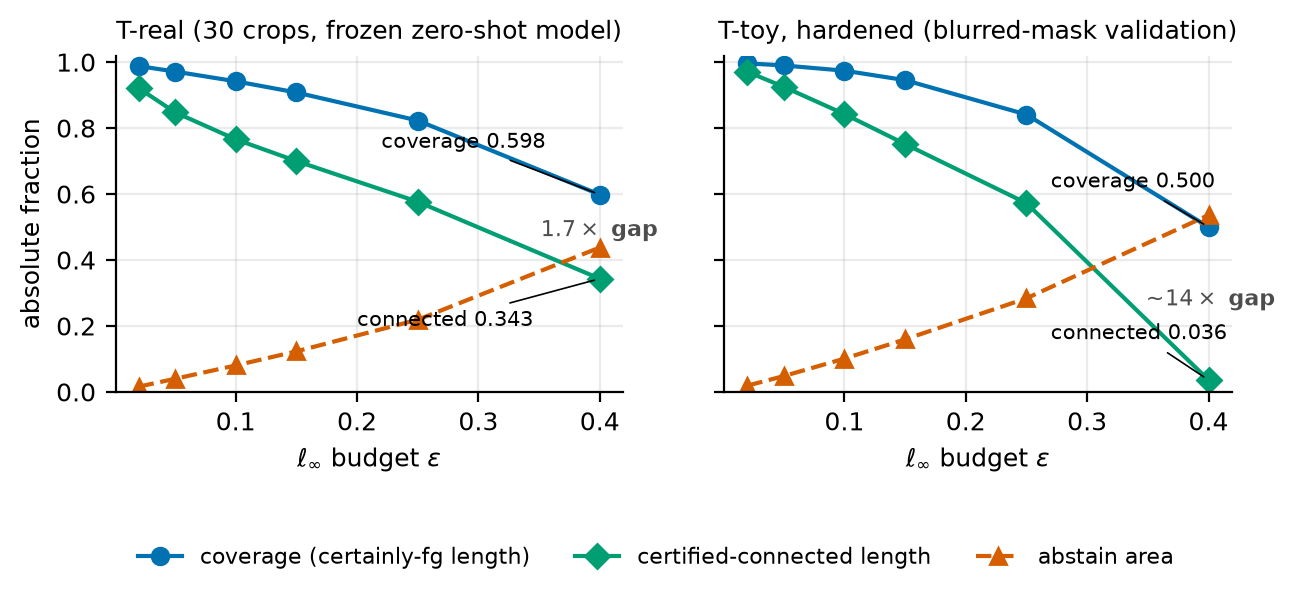
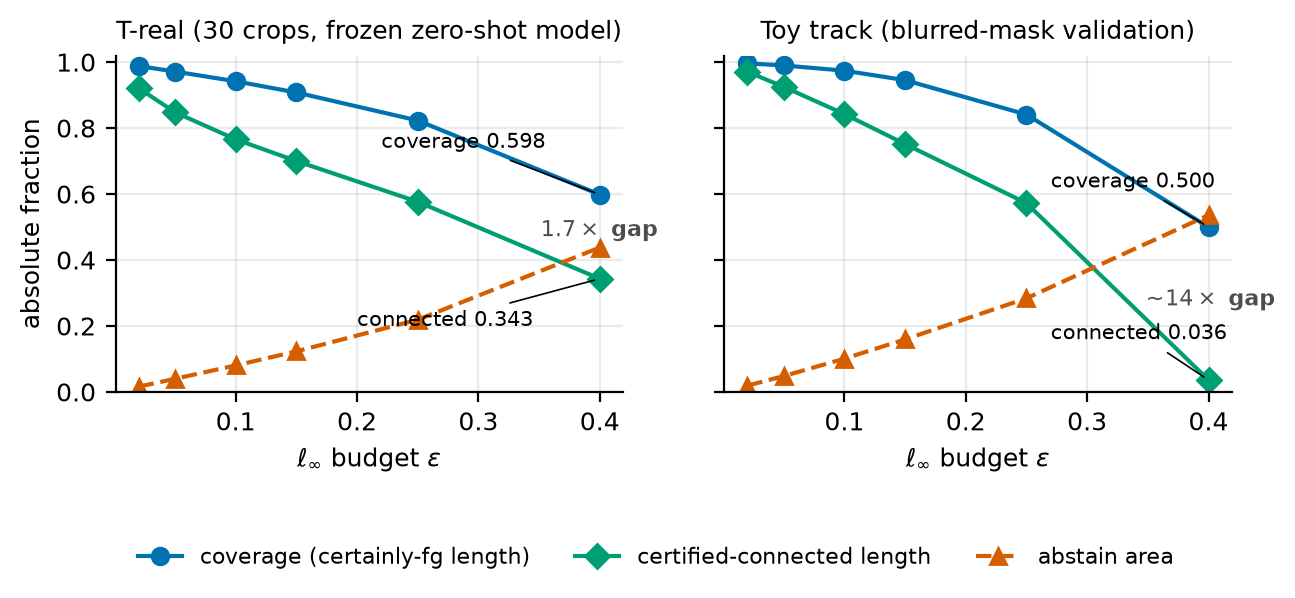
Paper corrections: monotonicity claim, Appendix A, abstract; add check_sync.py
- Sec 5.4 asserted 'every certified quantity is monotone along the sweep',
  which the paper's own Tables 2 and 3 falsify. The correction previously
  existed only in paper.md, so the built PDF still carried the false claim.
  Sets nest exactly; counts do not (components fragment, cavities merge); the
  persistence-form cycle count is the one provably monotone count.
- Appendix A was titled 'Full tables' and contained none - retitled to what it
  holds, the per-crop distribution figure and the rounding convention.
- Abstract: CERT_BG was still the strict test after the definition changed to
  <=; the cycle clause named an image rank in homology notation, which after
  the H-C4 correction is not even the headline count. Both fixed.
- Contribution 1 split into the two claims it makes.
- eps snap rule and the rank-identity strictness fix reached the tex.

check_sync.py: reduces paper.md and the built PDF to word-stem sequences and
looks up every md sentence in the PDF. Four divergences reached the artifact
before this existed. It sits beside check_numbers.py - that guards the numbers
in the markdown master, this guards prose agreement between the two.

Release adaptations restored after a wholesale copy overwrote them:
make_figs.py (_EXTERNAL, guarded path), tables.py (results/ not
experiments/topocert/ - it had never worked here), check_sync.py (path-agnostic
rather than pinned to an absolute source path).

Changed region(s): [[0.556, 0.0301, 0.9575, 0.0903]]

diff --git a/paper/check_sync.py b/paper/check_sync.py
@@ -1,0 +1,79 @@
+"""Does paper.md actually agree with the built PDF?
+
+Run alongside check_numbers.py: that one guards the NUMBERS in paper.md, this
+one guards prose agreement between the two hand-maintained masters. Four
+divergences reached the built PDF before this existed, including a claim the
+paper.md correction had already retracted.
+
+The two masters are maintained by hand, so this compares them by CONTENT rather
+than by string: every sentence of paper.md is reduced to a distinctive shingle
+of alphabetic word-stems and looked up in the normalised PDF text. A sentence
+whose shingle is missing is a candidate divergence -- prose that exists in one
+master and not the other.
+
+False positives are expected where notation renders differently (math, symbols,
+code spans); those are filtered by requiring a run of ordinary words.
+"""
+import re
+import subprocess
+import sys
+from pathlib import Path
+
+sys.stdout.reconfigure(encoding="utf-8", errors="replace")
+
+P = Path(__file__).resolve().parent
+
+# ---------------------------------------------------------------- PDF side
+pdf = subprocess.run(["pdftotext", str(P / "paper.pdf"), "-"],
+                     capture_output=True).stdout.decode("utf-8", "replace")
+pdf = pdf.replace("-\n", "")                      # de-hyphenate line breaks
+
+
+def norm(t):
+    t = t.lower()
+    t = re.sub(r"[^a-z0-9]+", " ", t)
+    return " ".join(t.split())
+
+
+def sig(t):
+    """Reduce text to its sequence of significant word-stems. BOTH sides must
+    go through this - filtering the query but not the haystack was the bug in
+    the first version of this check, and it reported 91 false divergences."""
+    return [w for w in norm(t).split() if w.isalpha() and len(w) > 2]
+
+
+PDFN = " ".join(sig(pdf))
+
+# ---------------------------------------------------------------- md side
+md = (P / "paper.md").read_text(encoding="utf-8")
+md = re.sub(r"```.*?```", " ", md, flags=re.S)     # code fences
+md = re.sub(r"^\|.*$", " ", md, flags=re.M)       # tables
+md = re.sub(r"^#+.*$", " ", md, flags=re.M)       # headings
+md = re.sub(r"\*\(.*?\)\*", " ", md, flags=re.S)  # figure-caption asides
+md = re.sub(r"`[^`]*`", " X ", md)                # code spans -> placeholder
+md = re.sub(r"\[[^\]]*\]", " ", md)               # citation keys
+md = md.replace("*", " ").replace("—", " ").replace("–", " ")
+
+sentences = [s.strip() for s in re.split(r"(?<=[.!?])\s+", md) if s.strip()]
+
+missing = []
+for s in sentences:
+    words = sig(s)
+    if len(words) < 10:                            # too short to fingerprint
+        continue
+    # try several shingles; the sentence counts as PRESENT if any 6-gram hits
+    hit = False
+    for i in range(0, max(1, len(words) - 6), 3):
+        if " ".join(words[i:i + 6]) in PDFN:
+            hit = True
+            break
+    if not hit:
+        missing.append(s)
+
+print(f"paper.md sentences fingerprinted : {len(sentences)}")
+print(f"NOT found in the built PDF       : {len(missing)}")
+print()
+for m in missing:
+    flat = " ".join(m.split())
+    print(f"  - {flat[:180]}")
+    print()

diff --git a/paper/paper.tex b/paper/paper.tex
@@ -313,7 +313,13 @@ number, the ``useful'' budget is calibration-defined: the median of the
 confidence margin $|p-\tfrac12|$ over uncertain pixels
 ($0<\text{margin}<\tfrac12$), per map, median across maps, snapped to the
 \emph{nearest} point of the swept grid. On the real track this gives $0.425 \to \eps=0.40$; the sweep
-is $\eps \in \{0.02, 0.05, 0.10, 0.15, 0.25, 0.40\}$.
+is $\eps \in \{0.02, 0.05, 0.10, 0.15, 0.25, 0.40\}$. Snapping to the
+nearest point can move $\eps$ down, which weakens the adversary and so
+makes certificates easier --- the one step in the pipeline that does not
+err toward abstention. It is guarded by the split-half stability of the
+estimator (\S\ref{sec:epsstab}), which selects the same grid point in 200
+of 200 resamples, and by the exactly-nested sweep (\S\ref{sec:nesting}),
+which shows what any mis-estimate would cost.
 
 \paragraph{Conventions (part of the certificate's definition, not post-hoc
 filters).}
@@ -925,9 +931,20 @@ certified-connected length 0.}
 \subsection{Nesting}\label{sec:nesting}
 Certificates over decreasing $\eps$ are monotone-nested ---
 $\CFG(\eps') \supseteq \CFG(\eps)$ for $\eps' \le \eps$, exact set
-containment, so every certified quantity is monotone along the sweep.
-Asserted as exact containment and verified on both tracks (registered
-prediction; it holds). This is the hook for the graded extension of
+containment, so every certified quantity that is a \emph{measure} of the
+certified sets --- coverage, certified length, abstain fraction --- is
+monotone along the sweep. Counts are not, and the tables show it:
+component and cavity counts are not monotone functionals of set inclusion
+(\S\ref{sec:generality}), so \#comp and \#tess move non-monotonically in
+Tables~\ref{tab:real} and \ref{tab:toy} as $\CFG$ fragments and $\CBG$
+merges. One topological count \emph{is} provably monotone: by the diagram
+identity of \S\ref{sec:hc4} the persistence-form cycle count at $\eps$ is
+the number of points of $p$'s fixed superlevel diagram straddling
+$[\tfrac12-\eps, \tfrac12+\eps]$, and widening $\eps$ can only shrink
+that set, so \#cyc-pers is non-increasing in $\eps$ --- on every crop
+individually, not merely in the mean. Exact set containment is asserted
+and unit-tested (a pre-registered prediction; it holds on both tracks, and
+registers the induced monotonicity of the coverage column). This is the hook for the graded extension of
 \S\ref{sec:future}: the sandwich family over $\eps$ \emph{is} a nested
 ($\alpha$-graded) structure already.
 
@@ -1095,14 +1112,20 @@ different problem, and it is the problem this paper addresses.
 
 \paragraph{Persistence stability, image persistence, and well groups.}
 Our certified-cycle count is a persistence quantity, and we say which
-one: writing $F_t = \{p \ge t\}$ for the superlevel filtration of the
-score map, the count of \S\ref{sec:cycles} is
+one: writing $F_t = \{p \ge t\}$ for the closed superlevel filtration of
+the score map and $F^{\circ}_t = \{p > t\}$ for its open counterpart, the
+\emph{persistence-form} count of \S\ref{sec:cycles} is
 \[
-  \operatorname{rank} H_1(F_{1/2+\eps} \to F_{1/2-\eps})
+  \operatorname{rank} H_1(F^{\circ}_{1/2+\eps} \to F_{1/2-\eps})
 \]
---- by the standard rank formula,
-the number of points of $p$'s superlevel persistence diagram alive across
-the entire window $[\tfrac12-\eps, \tfrac12+\eps]$. The stability theorem
+--- by the standard rank formula, the number of points of $p$'s superlevel
+persistence diagram with birth $> \tfrac12+\eps$ and death
+$< \tfrac12-\eps$, i.e.\ alive across the entire window
+$[\tfrac12-\eps, \tfrac12+\eps]$. The strict inequality at the source end
+is exactly $\CFG = \{p-\eps > \tfrac12\}$, and the target end is exactly
+$\lnot\CBG$ under the non-strict background test of \S\ref{sec:setting};
+the headline enclosure count is this rank only when each cavity holds a
+single $\CBG$ component (\S\ref{sec:cycles}, \S\ref{sec:hc4}). The stability theorem
 \citep{cohensteiner2007stability} recovers exactly this number as a lower
 bound: $\|p'-p\|_\infty \le \eps$ moves the diagram by at most $\eps$ in
 bottleneck distance, so every window-straddling point yields a hole in
@@ -1408,9 +1431,8 @@ not a persistence statement.
 \section{Soundness-check accounting}\label{app:accounting}
 Every emitted certified class is checked against 32 reachable masks: the
 two deterministic extremes plus 30 random reachable masks. The real-track
-total across 30 crops, the four hardened classes emitted by the parallel
-(components, tessera cores, corrected cycles, and connectivity
-segments), and the six-point $\eps$ sweep is
+total across 30 crops, the four certified classes (components, tessera
+cores, corrected cycles, and connectivity segments), and the six-point $\eps$ sweep is
 16{,}675{,}936 individual checks --- exactly $32 \times 521{,}123$ class
 instances --- with 0 violations. The check for a foreground class asserts
 connectivity and presence in the minimal mask; for a background core,

diff --git a/paper/make_figs.py b/paper/make_figs.py
@@ -19,14 +19,13 @@ from matplotlib.patches import Patch
 
 HERE = Path(__file__).resolve().parent
 
-# Optional source imagery (the original crops) is NOT shipped with this
-# repository; only the frozen score maps in experiments/p_maps are. A figure
-# that overlays an original crop looks here, and degrades gracefully if absent.
-# Override with INTACT_EXTERNAL_DATA if you hold the source data elsewhere.
+# RELEASE ADAPTATION - do not overwrite by wholesale copy from the source
+# tree. Optional source imagery is NOT shipped here; only the frozen score
+# maps in experiments/p_maps are. The source version walks above the repo
+# root (parents[3]), which raises IndexError for any cloner.
 _EXTERNAL = Path(os.environ.get("INTACT_EXTERNAL_DATA",
                                 HERE.parents[0] / "external-data"))
-EXP = HERE.parents[0] / "experiments"
-RES = HERE.parents[0] / "results"
+EXP = HERE.parents[1] / "experiments" / "topocert"
 FIGS = HERE / "figs"
 EPS = [0.02, 0.05, 0.1, 0.15, 0.25, 0.4]
 
@@ -47,8 +46,8 @@ def _save(fig, name):
 # ---- Fig 1: certified fractions vs eps (two panels, one y-scale) ---------
 def fig_sweep():
     real = json.loads(
-        (RES / "results_real_hardened.json").read_text())["sweep"]
-    toy = json.loads((RES / "results_toy_hardened.json").read_text())["sweep"]
+        (EXP / "results_real_hardened.json").read_text())["sweep"]
+    toy = json.loads((EXP / "results_toy_hardened.json").read_text())["sweep"]
     fig, axes = plt.subplots(1, 2, figsize=(7.2, 2.9), sharey=True)
 
     # LEFT: T-real (30 crops) — coverage vs connectivity is a MODEST 1.7x gap
@@ -82,7 +81,7 @@ def fig_sweep():
                 fontsize=7.5, arrowprops=dict(arrowstyle="-", lw=0.6))
     ax.annotate(r"$\sim\!14\times$ gap", xy=(0.40, 0.26), fontsize=8,
                 color="0.30", ha="center", fontweight="bold")
-    ax.set_title("T-toy, hardened (blurred-mask validation)", fontsize=9)
+    ax.set_title("Toy track (blurred-mask validation)", fontsize=9)
 
     for ax in axes:
         ax.set_xlabel(r"$\ell_\infty$ budget $\varepsilon$")
@@ -582,7 +581,7 @@ def fig_worstcrop():
     the 30 real crops at each eps (box = IQR, whiskers = full range). The
     worst crop (min) is marked: a worst-case paper's honest headline is the
     floor, not the mean, and it shows the result is not driven by outliers."""
-    sw = json.loads((RES / "results_real_hardened.json").read_text())["sweep"]
+    sw = json.loads((EXP / "results_real_hardened.json").read_text())["sweep"]
     fig, axes = plt.subplots(1, 2, figsize=(7.2, 3.1), sharex=True, sharey=True)
     panels = [("coverage", "coverage", BLUE),
               ("conn_len_frac", "certified-connected length", GREEN)]
@@ -627,7 +626,7 @@ def fig_graded():
     import run
     # representative crop, not cherry-picked: the one whose certified-cycle
     # count at eps=0.02 is closest to the 30-crop cohort mean
-    cyc = json.loads((RES / "results_real_hardened.json").read_text())[
+    cyc = json.loads((EXP / "results_real_hardened.json").read_text())[
         "sweep"]["0.02"]["per_crop"]["n_cycles_enclosure"]
     idx = int(np.argmin(np.abs(np.asarray(cyc) - np.mean(cyc))))
     name, p = run.load_pmaps(idx + 1)[idx]
@@ -723,8 +722,8 @@ def fig_decoupling():
     story: coverage tracks Dice on both sets; the topological invariants
     scatter on DRIVE but slope up on CHASE's degenerate over-segmented maps
     (Dice~0.30). Spearman rho annotated per dataset."""
-    drive = json.loads((RES / "results_drive.json").read_text())
-    chase = json.loads((RES / "results_chase.json").read_text())
+    drive = json.loads((EXP / "results_drive.json").read_text())
+    chase = json.loads((EXP / "results_chase.json").read_text())
     qu_keys = [("coverage", "coverage (accuracy-linked)"),
                ("conn_seg_frac", "certified-connected fraction"),
                ("n_components", "certified $\\beta_0$ components"),
@@ -762,4 +761,5 @@ if __name__ == "__main__":
     fig_pipeline()
     fig_decoupling()
     fig_worstcrop()
+    fig_hero()
     fig_vessels()

diff --git a/paper/tables.py b/paper/tables.py
@@ -11,7 +11,9 @@ import json
 from pathlib import Path
 
 HERE = Path(__file__).resolve().parent
-EXP = HERE.parents[1] / "experiments" / "topocert"
+# RELEASE ADAPTATION - the source tree keeps the JSONs beside the code in
+# experiments/topocert/; here they live in results/. Do not sync by copy.
+EXP = HERE.parents[0] / "results"
 OUT = HERE / "generated"
 EPS = ["0.02", "0.05", "0.1", "0.15", "0.25", "0.4"]
 
@@ -98,8 +100,8 @@ def main():
     (OUT / "table_toy.md").write_text(to_md(h, r))
     (OUT / "table_toy.tex").write_text(to_tex(
         h, r,
-        "T-toy (hardened re-emit, 24 synthetic maps): all columns incl.\\ "
-        "certified-connected fractions (1b) and persistence cycles (1a). "
+        "Toy track (24 synthetic maps): all columns, including the "
+        "certified-connected fractions and the persistence cycle counts. "
         "Toy $p$ is a blurred copy of the ground truth --- validation of "
         "the machinery, not evidence about real-model behaviour.",
         "tab:toy"))

diff --git a/README.md b/README.md
@@ -44,6 +44,7 @@ paper/         paper.tex / paper.md / paper.pdf, refs.bib, figures,
                  make_figs.py      all figures
                  tables.py         Tables 2-3 from the committed results
                  check_numbers.py  traces EVERY numeral in the paper to a source
+                 check_sync.py     paper.md prose vs. the built PDF
 experiments/   the certification library + experiment runners
                  sandwich.py       the ±ε sandwich (Proposition 1)
                  topo.py           certified quantities + soundness harness
@@ -70,6 +71,7 @@ NumPy/OpenCV/scikit-image/SciPy. All certification is **CPU-only**.
 ```bash
 pytest tests/ -q                       # 21 tests, ~2s
 python paper/check_numbers.py          # every numeral in the paper -> its source
+python paper/check_sync.py             # paper.md prose agrees with the built PDF
 ```
 
 `check_numbers.py` is the honesty gate: it re-derives the paper's statistics